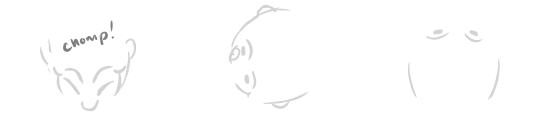
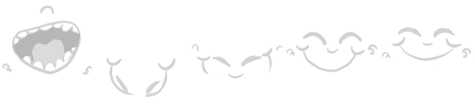
Added timer on screen, chomp anims update

diff --git a/src/Scenes/play.js b/src/Scenes/play.js
@@ -13,11 +13,12 @@ class play extends Phaser.Scene {
         this.load.spritesheet('kid0', 'assets/kid1SP.png', {frameWidth: 86, frameHeight: 105, startFrame: 0, endFrame: 1});
         this.load.spritesheet('kid1', 'assets/kid2SP.png', {frameWidth: 86, frameHeight: 105, startFrame: 0, endFrame: 1});
         this.load.spritesheet('kid2', 'assets/kid3SP.png', {frameWidth: 86, frameHeight: 105, startFrame: 0, endFrame: 1});
-        this.load.spritesheet('chomp', 'assets/chomp.png', {frameWidth: 180, frameHeight: 136, startFrame: 0, endFrame: 2}); //change this anim :/
+        this.load.spritesheet('chomp', 'assets/chomp.png', {frameWidth: 95, frameHeight: 105, startFrame: 0, endFrame: 4});
         this.load.spritesheet('bg', 'assets/bgsprites.png', {frameWidth: 640, frameHeight: 480, startFrame: 0, endFrame: 1});
     }
 
     create() {
+        debugger
         //animation config
         this.anims.create({
             key: 'drive',
@@ -50,18 +51,18 @@ class play extends Phaser.Scene {
         
         this.anims.create({
             key: 'chomp',
-            frames: this.anims.generateFrameNumbers('chomp', { start: 0, end: 2, first: 0}),
-            frameRate: 5
+            frames: this.anims.generateFrameNumbers('chomp', { start: 0, end: 4, first: 0}),
+            frameRate: 12
         });
 
         this.Animation('drive');
 
         this.add.rectangle(0, borderUISize + borderPadding, game.config.width, borderUISize * 2, 0x00FF00).setOrigin(0,0); 
 
-        this.ship01 = new Spaceship(this, game.config.width + borderUISize * 6, borderUISize * 4, 'kid0', 0, 30).setOrigin(0, 0);
-        this.ship02 = new Spaceship(this, game.config.width + borderUISize * 3, borderUISize * 5 + borderPadding * 2, 'kid1', 0, 20).setOrigin(0,0);
-        this.ship03 = new Spaceship(this, game.config.width, borderUISize * 6 + borderPadding * 4, 'kid2', 0, 10).setOrigin(0,0);
-        this.Pop2 = new Powerup(this, game.config.width, borderUISize + borderPadding * 4, 'powerup', 0, 200).setOrigin(0,0);
+        this.ship01 = new Spaceship(this, game.config.width + borderUISize * 6, borderUISize * 5, 'kid0', 0, 30).setOrigin(0, 0);
+        this.ship02 = new Spaceship(this, game.config.width + borderUISize * 3, borderUISize * 6 + borderPadding * 2, 'kid1', 0, 20).setOrigin(0,0);
+        this.ship03 = new Spaceship(this, game.config.width, borderUISize * 6 + borderPadding * 7, 'kid2', 0, 10).setOrigin(0,0);
+        this.Pop2 = new Powerup(this, game.config.width, borderUISize * 2 + borderPadding * 4, 'powerup', 0, 1000).setOrigin(0,0);
 
         //white borders 
         this.add.rectangle(0, 0, game.config.width, borderUISize, 0xFFFFFF).setOrigin(0, 0);
@@ -119,11 +120,12 @@ class play extends Phaser.Scene {
              delay: 0
         */ 
 
-        //display clock (idk how to update)
-        //this.clockTimer = this.add.text(borderUISize + borderPadding * 22, borderUISize + borderPadding * 2, game.settings.gameTimer, scoreConfig);
+        this.clockTimer = this.add.text(borderUISize + borderPadding * 15, borderUISize + borderPadding * 2, 'Time remaining: ' + game.settings.gameTimer, scoreConfig);
        }
 
     update() {
+        this.clockTimer.text = ('Time remaining: ' + Math.floor(this.clock.getRemainingSeconds()));
+
         if (this.gameOver && Phaser.Input.Keyboard.JustDown(keyLEFT)) {
             this.sound.get('bgm').stop();
             this.scene.start("menuScene");
@@ -139,6 +141,9 @@ class play extends Phaser.Scene {
             this.ship01.update();           
             this.ship02.update();
             this.ship03.update();
+            //can i update an animation here?
+            // let wave = this.add.sprite(this.ship03.x, this.ship03.y, 'kidz2').setOrigin(0, 0);
+            // wave.anims.play('kidz2');
             this.Pop2.update();
 
         }
@@ -156,6 +161,8 @@ class play extends Phaser.Scene {
             this.shipExplode(this.ship01);
         }
         if (this.checkCollision(this.p1Rocket, this.Pop2)) {
+            this.p1Score += this.Pop2.points;
+            this.scoreLeft.text = this.p1Score; 
             this.p1Rocket.reset();
             this.Pop2.destroy();
             this.p1Rocket.destroy();
@@ -178,11 +185,11 @@ class play extends Phaser.Scene {
     shipExplode(ship) {
         ship.alpha = 0;
         let boom = this.add.sprite(ship.x, ship.y, 'chomp').setOrigin(0, 0);
+        ship.reset();                         // reset ship position
         boom.anims.play('chomp');               // play explode animation
         boom.on('animationcomplete', () => {    // callback after anim completes
-          ship.reset();                         // reset ship position
           ship.alpha = 1;                       // make ship visible again
-          boom.destroy();                       // remove explosion sprite
+          boom.destroy();                       // remove eat sprite
         });
         // score add
         this.p1Score += ship.points;

diff --git a/src/main.js b/src/main.js
@@ -3,22 +3,22 @@
 //April 18, 2021
 //13 hrs so far
 //Reskinned the game to be popsicle shooting game and not space (60 points)
-//added background music to menu and main game (5 points)
+//added original background music to menu and main game (5 points)
 //Randomized explosion (eating) sfx (10 points)
 //changed the background to have an animated sprite (got rid of scrolling bg for now)
-//added a powerup that is earned by shooting a faster sprite -- the powerup shoots faster and is larger than the base popsicle. the player keeps it until game over (20 points)
+//added a powerup that is earned by shooting a faster sprite -- the powerup shoots faster and is larger than the base popsicle. It is worth 1000 points. the player keeps it until game over (20 points)
 //new title screen AND rules screen (10 points)
+//added clock on screen (10 points)
 
 //shoutout to user Joseph7695 on phaser discorse forums for posting about this.sound.get()
 
 /*
     WIP stuff:
-    - songs overlap when you quit to the main menu and start a new game (because of multiple song instances and the code only stops one at a time??)
-    - kids animations (while they are going by and when they eat the popsicle) (10 points?)
-    - border and general UI changes (10 points?)
-    - BGM music for the main game + fix the overlapping (low priority)
+    - kids animations as they slide by (or change back to static heads so it matches the eating anims)
+    - reimplement scrolling bg (like flowers/sidewalk/blades of grass)
+    - border and general UI changes
+    - BGM music for the main game + fix the overlapping (bug)
     - maybe as cleanup, rename shit in these files to not say "spaceship" n stuff anymore
-    - clock on screen if its even fucking possible (10 points)
 */
 
 let config = {

diff --git a/prefabs/powerup.js b/prefabs/powerup.js
@@ -1,21 +1,21 @@
 class Powerup extends Phaser.GameObjects.Sprite {
-    constructor(scene, x, y, texture, frame) {
+    constructor(scene, x, y, texture, frame, pointValue) {
         super(scene, x, y, texture, frame);
-
         scene.add.existing(this);
+        this.points = pointValue;
         this.moveSpeed = game.settings.spaceshipSpeed + 2;       
     }
 
 
     update(){
         this.x -= this.moveSpeed;
-        //if powerup goes beyond the border on the left side, reset on the right side
+        //if powerup goes beyond the border on the left side, reset 600 pixels off the right side
         if(this.x <= 0 - this.width) {
             this.x = game.config.width + 600;
         }
     }
 
     reset() {
-        this.x = game.config.width;
+        this.x = game.config.width + 600;
     }
 }

diff --git a/prefabs/spaceship.js b/prefabs/spaceship.js
@@ -16,6 +16,6 @@ class Spaceship extends Phaser.GameObjects.Sprite {
     }
 
     reset() {
-        this.x = game.config.width;
+        this.x = game.config.width + 200;
     }
 }
